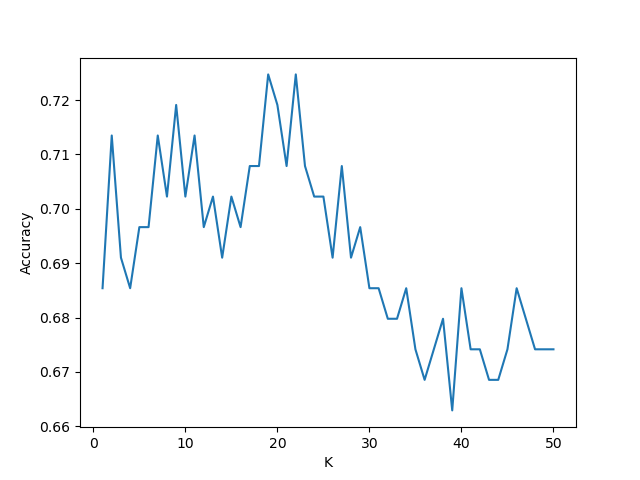
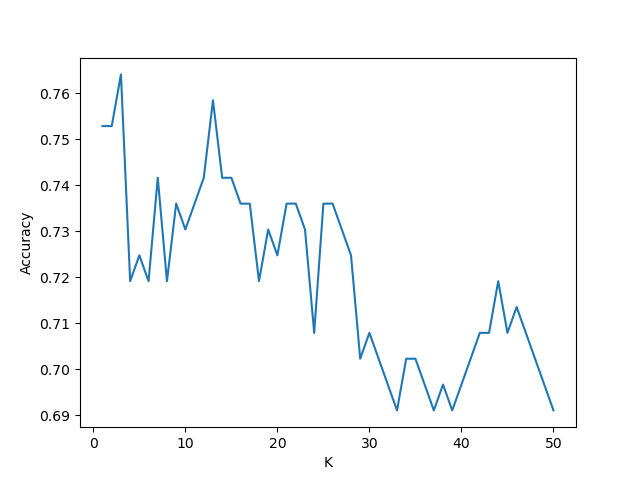
sasd

diff --git a/main.py b/main.py
@@ -96,16 +96,15 @@ def main(ifname, knn=False, forest=False, logistic=False, fisher=False, model_co
         cv_val = eval.kfoldCV(alldata, f=3, model="fisher", print_result=True)
 
     if model_comparison == True:
+
         #Assess Accuracy and Expected loss against sample
-        #Takes 2 minutes to run
-        #comp.metric_v_sample(x,y)
+        comp.metric_v_sample(x,y)
         
         # Plot confusion matrix for each model
         comp.plot_cm_comparison(forest_prediction, knn_prediction, fisher_prediction, logistic_prediction, Y_test)
 
-        # K-Fold mean accuracy vs number of folds
-        #This takes approximately 8 minutes 
-        #comp.accuracy_v_fold(alldata)
+        # K-Fold mean accuracy vs number of folds 
+        comp.accuracy_v_fold(alldata)
 
 if __name__ == "__main__":
     import sys
